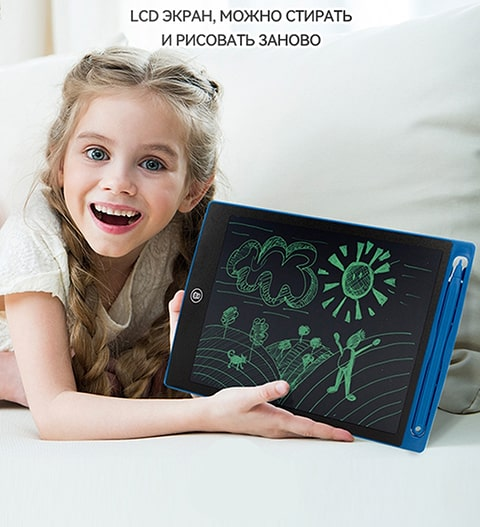
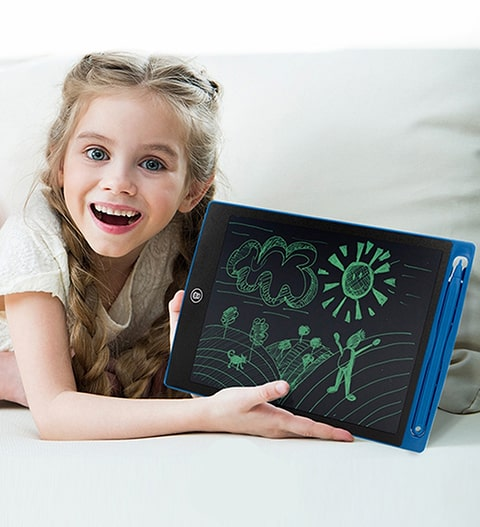
KidsTablet v1

Changed region(s): [[0.2188, 0.0, 0.75, 0.1214], [0.0312, 0.0, 0.125, 0.1214], [0.875, 0.0, 1.0, 0.0911]]

diff --git a/resources/views/lander/dailyshark/rs/kidstablet.blade.php b/resources/views/lander/dailyshark/rs/kidstablet.blade.php
@@ -44,19 +44,20 @@
 </head>
 <body>
 <div class="main_wrapper">
+    @include('components.display_errors')
     <section class="offer">
-        <h1 class="main_title" style="color:#013162;">Графический планшет для творчества</h1>
+        <h1 class="main_title" style="color:#013162;">TABLET ZA RAZVIJANJE KREATIVNOSTI KOD DECE</h1>
         <div class="box">
             <img src="{{ asset('/') }}dailysharkFiles/kidstablet/bgg.jpg" alt="">
             <div class="sale">
-                <p>скидка <span>50%</span></p>
+                <p>popust <span>40%</span></p>
             </div>
         </div>
         <div class="bottom">
             <ul class="list1">
-                <li>Вы можете создавать рисунки</li>
-                <li>Чертить все, что вам нужно</li>
-                <li>Писать или делать подсчеты</li>
+                <li>Crtanje i pisanje</li>
+                <li>Učenje slova i brojeva</li>
+                <li>Deca više neće pistati po zidovima</li>
             </ul>
             <div class="price clearfix">
                 <div class="old">
@@ -76,136 +77,137 @@
                     </small>
                 </div>
             </div>
-            <a href="#order_form" class="button-m">Заказать со скидкой</a>
-            <p class="products_count">Осталось <span>18</span> планшетов по акции</p>
+            <a href="#order_form" class="button-m">Poručite sada</a>
+            <p class="products_count">Preostalo <span>18</span> komada na akciji</p>
         </div>
     </section>
     <section class="sect2 spisok3">
-        <h2 class="title">  <span>Особенности планшета</span>
-        </h2>
+        <h2 class="title"><span>KARAKTERISTIKE TABLETA</span></h2>
         <ul>
             <li>
                 <img src="{{ asset('/') }}dailysharkFiles/kidstablet/s2_img3.jpg">
-                <h3>Удаление записей одной кнопкой</h3>
+                <h3>BRISANJE ZAPISA JEDNIM DUGMETOM</h3>
             </li>
             <li>
                 <img src="{{ asset('/') }}dailysharkFiles/kidstablet/s2_img2.jpg">
-                <h3>Стилус крепится прямо на корпус</h3>
+                <h3>OLOVKA JE PRIČVRŠĆENA DIREKTNO NA KUĆIŠTE</h3>
             </li>
             <li>
                 <img src="{{ asset('/') }}dailysharkFiles/kidstablet/s2_img1.jpg">
-                <h3>Безвреден для глаз</h3>
+                <h3>NE ŠTETI I NE NAPREŽE OČI</h3>
             </li>
             <li>
                 <img src="{{ asset('/') }}dailysharkFiles/kidstablet/s2_img4.jpg">
-                <h3>Очень легкий и тонкий</h3>
+                <h3>VEOMA JE LAGAN I TANAK</h3>
             </li>
         </ul>
-        <a href="#order_form" class="button-m">Заказать со скидкой</a>
+        <a href="#order_form" class="button-m">Poručite sada</a>
     </section>
     <section class="sect3 color_theme">
-        <h2 class="title">Лучшая игрушка для маленьких непосед</h2>
+        <h2 class="title">NAJBOLJA IGRAČKA ZA SMIRIVANJE MALIŠANA</h2>
         <img src="{{ asset('/') }}dailysharkFiles/kidstablet/s3_img.jpg" alt="">
-        <p>Планшет для рисования Writing Tablet Planshet это источник нескончаемого вдохновения. Ребенок может рисовать что-то новое
-            снова и снова, при этом вам не придется тратить деньги на покупку новых альбомов или бумаги.
+        <p>
+            Tablet za decu je izvor beskrajne inspiracije. Dete može da crta nešto novo iznova i iznova, a vi ne morate
+            da trošite novac na kupovinu novih bojanki i papira. Takođe, deca neće šarati po vašim zidovima.
         </p>
         <ul class="list1">
-            <li>Улучшает творческие способности</li>
-            <li>Повышает умственную активность</li>
-            <li>Развивает моторику</li>
-            <li>Формирует ребенка как личность</li>
+            <li>Poboljšava kreativnost</li>
+            <li>Povećava mentalnu aktivnost</li>
+            <li>Razvija motoričke sposobnosti</li>
+            <li>Potpuno bezbedna i zdrava zanimacija za dete</li>
         </ul>
         <br>
     </section>
     <section class="sect4">
         <img src="{{ asset('/') }}dailysharkFiles/kidstablet/colors.jpg" alt="">
-        <h4>Характеристики:</h4>
+        <h4>KARAKTERISTIKE:</h4>
         <ul class="comlect">
             <li>
                 <span>1</span>
-                <p>Материал: монохромный LCD с пленкой, материал корпуса: ABS пластик</p>
+                <p>Materijal: Monohromatski LCD sa filmom <br>Materijal kućišta: ABS plastika</p>
             </li>
             <li>
                 <span>2</span>
-                <p>Комплектация: планшет, перо</p>
+                <p>Sadržaj pakovanja: tablet, olovka</p>
             </li>
             <li>
                 <span>3</span>
-                <p>Диагональ экрана: 12 дюймов</p>
+                <p>Dijgonala ekrana: 12 inča</p>
             </li>
             <li>
                 <span>4</span>
-                <p>Вес: 260 грамм</p>
+                <p>Težina: 260 grama</p>
             </li>
             <li>
                 <span>5</span>
-                <p>Размер в упаковке: 280.8 х 185 х 4.8 мм</p>
+                <p>Veličina pakovanja: 280,8 x 185 x 4,8 mm</p>
             </li>
         </ul>
-        <a href="#order_form" class="button-m">Заказать со скидкой</a>
+        <a href="#order_form" class="button-m">Poručite sada</a>
     </section>
     <section class="rev1 color_theme">
-        <h2 class="title">Отзывы покупателей</h2>
+        <h2 class="title">UTISCI KUPACA</h2>
         <div class="reviews_slider_rev1">
             <div class="rev1-inner">
                 <img src="{{ asset('/') }}dailysharkFiles/kidstablet/rev3.jpg" alt="">
-                <p>
-                    Мои дети очень любят рисовать. Помимо рисования на бумаге, мы ещё иногда рисуем на мольберте. Поэтому, когда я увидела современный LCD планшет, то сразу же решила его купить. Цена составила всего
-                    {{ $prices[1]['amount'] }}
-                    {{ $prices[1]['currency'] }}
-                    . Кстати, подобные планшеты я ещё видела в магазине Светофор, но в разы дороже.
-                </p>
-                <b class="info">Ольга, 28 лет</b>
+                <p>Moja deca vole da crtaju. Pored crtanja na papiru, ponekad crtamo i na štafelaju. Video sam moderan tablet
+                    i odmah sam odlučio da ga kupim. Cena je bila vrlo prihvatljiva. Uzgred, video sam slične tablete u dečijim
+                    prodavnicama ali su bili mnogo skuplji.</p>
+                <b class="info">Ivan, 28 godina</b>
             </div>
             <div class="rev1-inner">
                 <img src="{{ asset('/') }}dailysharkFiles/kidstablet/rev2.jpg" alt="">
-                <p>У дочки в классе стали появляться планшеты для рисования Writing Tablet Planshet и она захотела себе такой. Поэтому и заказали у вас на сайте. Хотя подобные игрушки у нее были и ранее, но данный планшет сделан как настоящий: стильный и тонкий, а также качество очень хорошое. </p>
-                <b class="info">Анастасия, 34 года</b>
+                <p>Moja kćerka je počela da kupuje bojanke ali ih je brzo prevazišla i postale su joj dosadne. Kupila sam jojž
+                    ovaj tablet i moram da vam priznam da ju je to fasciniralo. Potpuno je oduševljena poklonom.
+                    Preporučujem ga svima koji imaju decu, neverovatna zabava za jako malo novca.</p>
+                <b class="info">Anastasija, 34 godine</b>
             </div>
             <div class="rev1-inner">
                 <img src="{{ asset('/') }}dailysharkFiles/kidstablet/rev1.jpg" alt="">
-                <p>Тоже купили детям этот Writing Tablet Planshet. Этот планшет удобно брать в дорогу, мало места занимает и писать на нем можно очень долго (заявлено, что выдержит более 500 000 рисунков), а если взять предмет похожий на стилус, то можно и вдвоем рисовать/играть (в крестики-нолики, к примеру). </p>
-                <b class="info">Олег, 31 год</b>
+                <p>Kupili smo ovaj tablet za pisanje deci. Veoma je pogodan za poneti na put i deca se uglavnom mirna dok se voze.
+                    Što je najvažnije, ne boje mi više sedišta u automobilu, to me je ranije izluđivalo. Super stvar, neka svaki
+                    roditelj kupi svome detetu.</p>
+                <b class="info">Jovan, 31 godina</b>
             </div>
         </div>
-        <a href="#order_form" class="button-m">Заказать со скидкой</a>
+        <a href="#order_form" class="button-m">Poručite sada</a>
     </section>
     <section class="vote color_theme">
-        <h2 class="title">Понравилась ли вашему ребенку игрушка?</h2>
+        <h2 class="title">DA LI SE VAŠEM DETETU DOPAO TABLET?</h2>
         <div class="addreview">
             <div class="width">
                 <div class="coll-50 reviews_test">
                     <div class="test">
                         <div class="review_result">
-                            <p>Да, ребенок просто в восторге!</p>
+                            <p>Da, dete je oduševljeno</p>
                             <div class="widthpoll">
                                 <div class="line green_result" style="width: 76%;"></div>
                                 <div class="result_item">76%</div>
                             </div>
                         </div>
                         <div class="review_radio green_radio">
-                            <input type="radio"> <span>Да, ребенок просто в восторге!</span>
+                            <input type="radio"> <span>Da, dete je oduševljeno</span>
                         </div>
                         <div class="review_result">
-                            <p>Нет, не то, что я ожидал(а)</p>
+                            <p>Ne, nije ono što sam očekivao</p>
                             <div class="widthpoll">
                                 <div class="line red_result" style="width: 2%;"></div>
                                 <div class="result_item">2%</div>
                             </div>
                         </div>
                         <div class="review_radio red_radio">
-                            <input type="radio"> <span>Нет, не то, что я ожидал(а)</span>
+                            <input type="radio"> <span>Ne, nije ono što sam očekivao</span>
                         </div>
                         <div class="review_result">
-                            <p>Не покупал(а), узнать результаты</p>
+                            <p>Nisam još kupio ali bih pogledao rezultat</p>
                             <div class="widthpoll">
                                 <div class="line blue_result" style="width: 22%;"></div>
                                 <div class="result_item">22%</div>
                             </div>
-                            <p class="votenum">Проголосовало пользователей: <span>874</span></p>
+                            <p class="votenum">Broj glasova: <span>874</span></p>
                         </div>
                         <div class="review_radio blue_radio">
-                            <input type="radio"> <span>Не покупал(а), узнать результаты</span>
+                            <input type="radio"> <span>Nisam još kupio ali bih pogledao rezultat</span>
                         </div>
                     </div>
                 </div>
@@ -213,24 +215,23 @@
         </div>
     </section>
     <section class="deliv1">
-        <h2 class="title">Как мы работаем</h2>
+        <h2 class="title">KAKO RADIMO</h2>
         <div class="deliv1_inner">
             <div class="blue1 di1">
-                <h3>Доставка</h3>
-                <p>Доставка почтой в течение 3-10 рабочих дней.
-                </p>
+                <h3>ISPORUKA</h3>
+                <p>Dostava poštom u roku od 3-10 radnih dana</p>
             </div>
         </div>
         <div class="deliv1_inner">
             <div class="purple di2">
-                <h3>Гарантии</h3>
-                <p>Мы всегда проверяем товар перед отправкой и гарантируем 100% качество.</p>
+                <h3>GARANCIJA</h3>
+                <p>Uvek proveravamo robu pre isporuke i garantujemo 100% kvalitet</p>
             </div>
         </div>
         <div class="deliv1_inner">
             <div class="green di3">
-                <h3>ОПЛАТА</h3>
-                <p>Оплата заказов осуществляется непосредственно по факту получения заказа.</p>
+                <h3>PLAĆANJE</h3>
+                <p>Plaćanje se vrši kuriru pri preuzimanju pošiljke</p>
             </div>
         </div>
         <div class="deliv1_inner">
@@ -238,18 +239,18 @@
         </div>
     </section>
     <section class="offer">
-        <h1 class="main_title" style="color:#013162;">Графический планшет для творчества</h1>
+        <h1 class="main_title" style="color:#013162;">TABLET ZA RAZVIJANJE KREATIVNOSTI KOD DECE</h1>
         <div class="box">
             <img src="{{ asset('/') }}dailysharkFiles/kidstablet/bgg.jpg" alt="">
             <div class="sale">
-                <p>скидка <span>50%</span></p>
+                <p>popust <span>40%</span></p>
             </div>
         </div>
         <div class="bottom">
             <ul class="list1">
-                <li>Вы можете создавать рисунки</li>
-                <li>Чертить все, что вам нужно</li>
-                <li>Писать или делать подсчеты</li>
+                <li>Crtanje i pisanje</li>
+                <li>Učenje slova i brojeva</li>
+                <li>Deca više neće pistati po zidovima</li>
             </ul>
             <div class="price clearfix">
                 <div class="old">
@@ -269,20 +270,23 @@
                     </small>
                 </div>
             </div>
-            <h4>Оставьте заявку</h4>
-            <p>и получите планшет для рисования Writing Tablet Planshet <span>по скидке 50%</span>
-            </p>
-            <form id="order_form" class="main-order-form m1-form"
-                  action="#" method="post">
-                <input name="name" type="text" placeholder="Введите ваше имя" required="">
-                <input name="phone" type="tel" placeholder="Введите ваш телефон" required="">
-                <button class="button-m">Заказать со скидкой</button>
+            <h4>UNESITE PODATKE ZA DOSTAVU</h4>
+            <p>i nabavite tablet za decu <span>sa 40% popusta</span></p>
+            <form id="order_form" class="main-order-form m1-form" action="{{$orderRoute}}" method="post">
+                {{csrf_field()}}
+                @include('lander.naturapharm.components.form_hidden_fields')
+                <input name="name" type="text" placeholder="Ime i prezime" required="">
+                <input name="phone" type="tel" placeholder="Telefon" required="">
+                <input name="name" type="text" placeholder="Adresa" required="">
+                <input name="name" type="text" placeholder="Grad" required="">
+                <button class="button-m">Poručite sada</button>
             </form>
-            <p class="products_count">Осталось <span>18</span> планшетов по акции</p>
+            <p class="products_count">Preostalo <span>18</span> komada na akciji</p>
         </div>
     </section>
 </div>
 <script src="{{ asset('/') }}shared_files/slick.min.js"></script>
 <script src="{{ asset('/') }}dailysharkFiles/kidstablet/init.js"></script>
+@include('components.pixel_footer')
 </body>
 </html>
